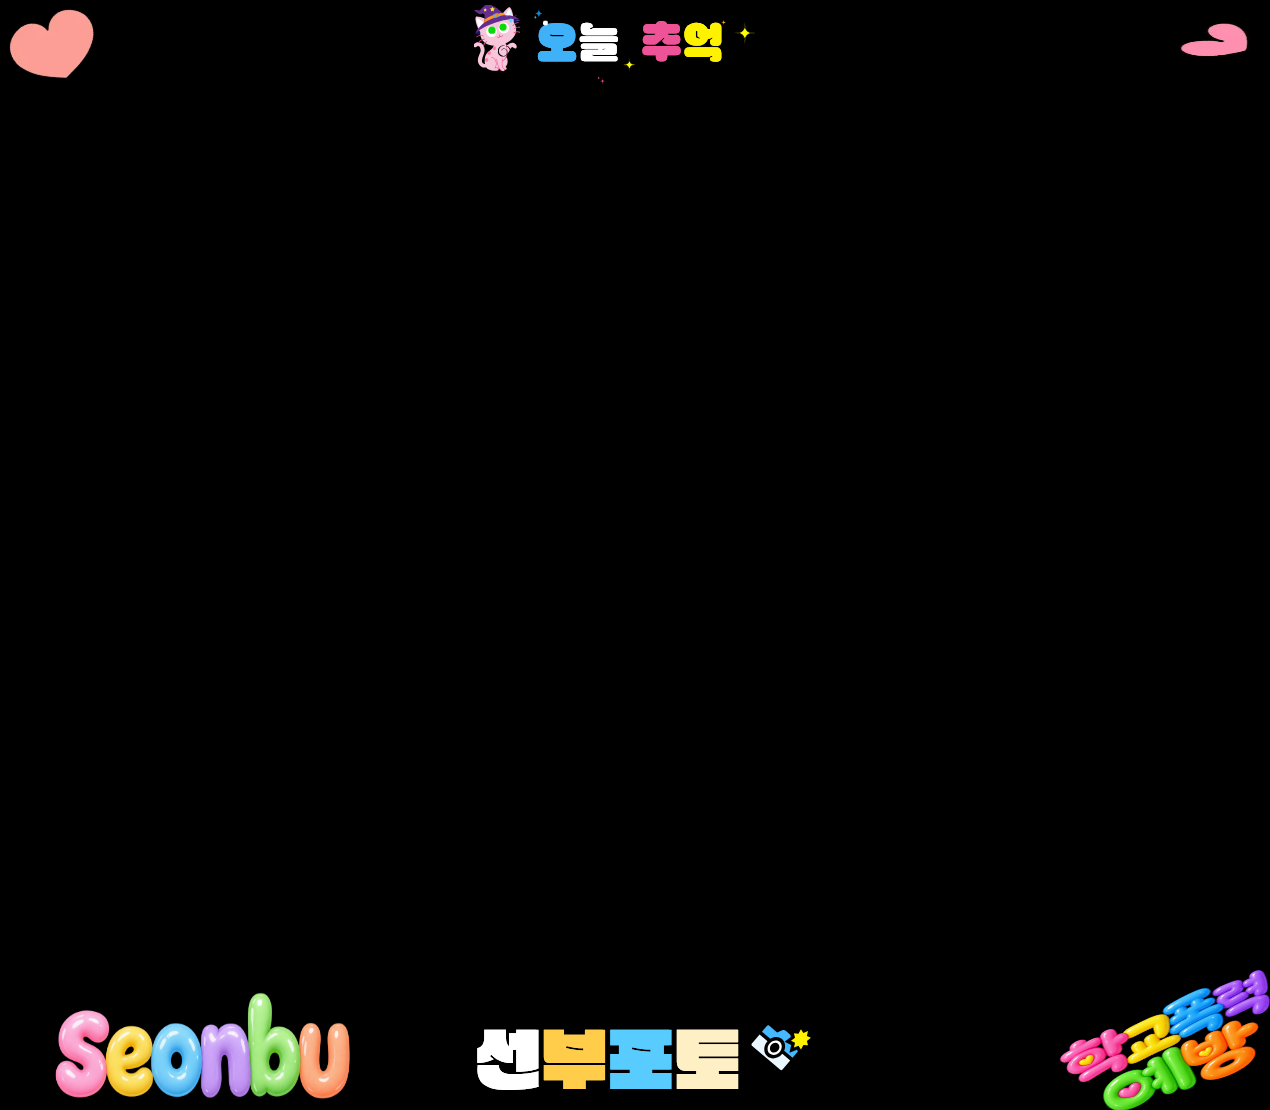
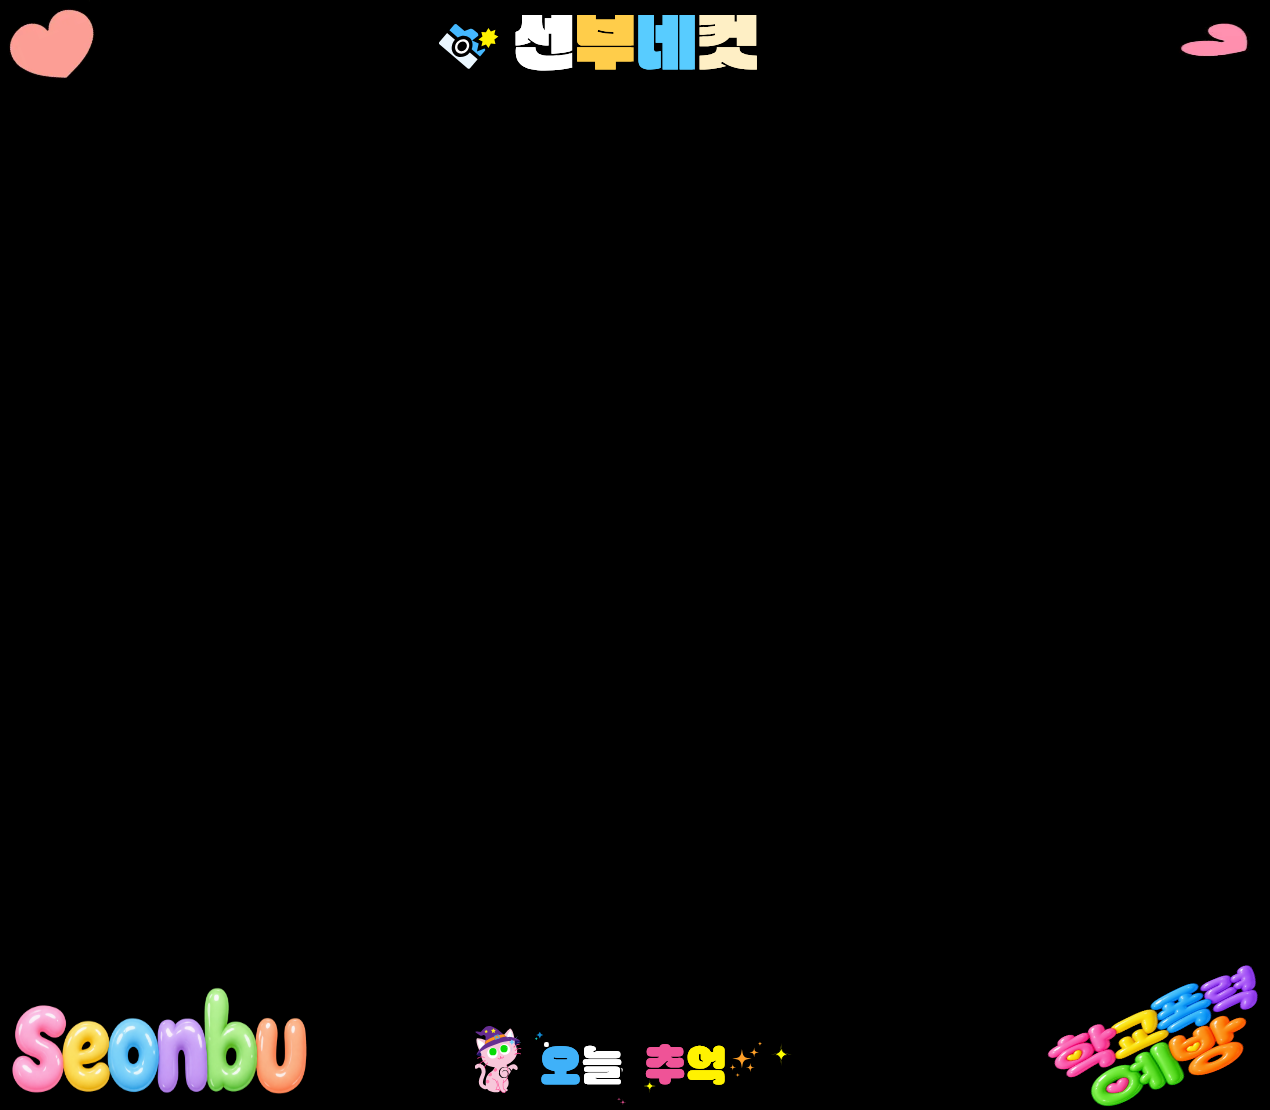
update5

diff --git a/index.html b/index.html
@@ -59,7 +59,7 @@
             height: 100%;
         }
 
-        /* 뷰파인더 메인 프레임 (여백 확보로 배경 이미지 짤림 해결) */
+        /* 뷰파인더 메인 프레임 */
         .viewfinder-outer {
             position: relative;
             width: 100%;
@@ -67,25 +67,37 @@
             height: calc(100vh - 120px);
             max-height: 620px;
             background-color: #1a1a1a;
-            background-size: 100% 100%; /* 배경 이미지 비율에 맞게 적용 */
-            background-position: center;
-            background-repeat: no-repeat;
             border-radius: 16px;
             overflow: hidden;
             box-shadow: 0 12px 40px rgba(0, 0, 0, 0.6);
             display: flex;
             flex-direction: column;
-            padding: 40px 20px 24px 20px; /* 상단 여백 확충 */
+            padding: 40px 20px 24px 20px;
             transition: all 0.3s ease;
         }
 
+        /* 배경 요소를 사진 레이어 위에 위치시키기 위한 가상 요소 사용 */
+        .viewfinder-outer::after {
+            content: '';
+            position: absolute;
+            top: 0;
+            left: 0;
+            width: 100%;
+            height: 100%;
+            background-size: 100% 100%;
+            background-position: center;
+            background-repeat: no-repeat;
+            pointer-events: none;
+            z-index: 10; /* 카메라 화면(z-index: 1)보다 위에 레이어 배치 */
+        }
+
         /* 배경 테마 CSS 클래스 */
-        .viewfinder-outer.theme-school { background-image: url('bg-school2.png'); }
-        .viewfinder-outer.theme-color-1 { background-image: none; background: #1a1a1a; }
-        .viewfinder-outer.theme-color-2 { background-image: none; background: #ffffff; color: #1a1a1a; }
-        .viewfinder-outer.theme-color-3 { background-image: none; background: #f4ebe1; color: #333333; }
-        .viewfinder-outer.theme-grad-1 { background-image: none; background: linear-gradient(135deg, #a1c4fd 0%, #c2e9fb 100%); }
-        .viewfinder-outer.theme-grad-2 { background-image: none; background: linear-gradient(135deg, #ff9a9e 0%, #fecfef 100%); }
+        .viewfinder-outer.theme-school::after { background-image: url('bg-school2.png'); }
+        .viewfinder-outer.theme-color-1 { background: #1a1a1a; }
+        .viewfinder-outer.theme-color-2 { background: #ffffff; color: #1a1a1a; }
+        .viewfinder-outer.theme-color-3 { background: #f4ebe1; color: #333333; }
+        .viewfinder-outer.theme-grad-1 { background: linear-gradient(135deg, #a1c4fd 0%, #c2e9fb 100%); }
+        .viewfinder-outer.theme-grad-2 { background: linear-gradient(135deg, #ff9a9e 0%, #fecfef 100%); }
 
         /* 우측 상단 문구 위치 정리 */
         .frame-header {
@@ -94,19 +106,20 @@
             right: 20px;
             font-size: 1rem;
             font-weight: 700;
-            z-index: 5;
+            z-index: 15; /* 최상단 레이어 */
             white-space: nowrap;
             color: #ffffff;
             text-shadow: 0 2px 4px rgba(0,0,0,0.8);
         }
 
+        /* 카메라 화면 레이어 순서를 뒤로 변경 */
         .camera-grid {
             flex: 1;
             display: grid;
             gap: 8px;
             width: 100%;
             position: relative;
-            z-index: 2;
+            z-index: 1; /* z-index를 낮추어 하단 글씨가 사진 위로 올라오게 함 */
             overflow: hidden;
             border-radius: 8px;
             margin-top: 10px;
@@ -141,7 +154,7 @@
             width: 100%;
             height: 100%;
             pointer-events: none;
-            z-index: 10;
+            z-index: 20;
         }
 
         .sticker-item {
@@ -246,7 +259,6 @@
 
         .btn-opt:hover { background-color: #323746; }
         
-        /* 단일 선택 강조 CSS */
         .btn-opt.active {
             background-color: var(--accent-color) !important;
             border-color: var(--accent-color) !important;
@@ -493,7 +505,6 @@
         const inputHeaderText = document.getElementById('input-header-text');
         const countdownEl = document.getElementById('countdown');
 
-        // 웹캠 시작
         async function startCamera() {
             try {
                 videoStream = await navigator.mediaDevices.getUserMedia({
@@ -526,7 +537,6 @@
             }
         }
 
-        // 특정 그룹 내의 선택 버튼 active 전환 전용 함수
         function setActiveButton(groupId, targetBtn) {
             const group = document.getElementById(groupId);
             if (!group) return;
@@ -534,42 +544,36 @@
             if (targetBtn) targetBtn.classList.add('active');
         }
 
-        // 1. 컷수 선택
         function setCutLayout(cutNum, btn) {
             currentCutCount = cutNum;
             setActiveButton('grp-cut', btn);
             renderCutBoxes();
         }
 
-        // 2. 추천 문구 선택
         function selectPresetText(text, btn) {
             inputHeaderText.value = text;
             textHeaderDisplay.innerText = text;
             setActiveButton('grp-preset', btn);
         }
 
-        // 직접 입력시 preset 액티브 해제
         function updateHeaderText() {
             textHeaderDisplay.innerText = inputHeaderText.value;
             const group = document.getElementById('grp-preset');
             group.querySelectorAll('.btn-opt').forEach(btn => btn.classList.remove('active'));
         }
 
-        // 3. 폰트 선택
         function setFont(fontName, btn) {
             currentFont = fontName;
             textHeaderDisplay.style.fontFamily = `'${fontName}', sans-serif`;
             setActiveButton('grp-font', btn);
         }
 
-        // 4. 색상 선택
         function setTextColor(color, btn) {
             currentTextColor = color;
             textHeaderDisplay.style.color = color;
             setActiveButton('grp-color', btn);
         }
 
-        // 5. 배경 테마 선택
         function setTheme(themeClass, btn) {
             frameOuter.classList.remove(activeThemeClass);
             activeThemeClass = themeClass;
@@ -577,7 +581,6 @@
             setActiveButton('grp-theme', btn);
         }
 
-        // 6. 스티커 추가
         function addSticker(emoji) {
             const sticker = document.createElement('div');
             sticker.className = 'sticker-item';
@@ -603,7 +606,6 @@
             stickerLayer.innerHTML = '';
         }
 
-        // 촬영 클릭 이벤트
         document.getElementById('btn-take-photo').addEventListener('click', () => {
             let count = 3;
             countdownEl.style.display = 'block';
@@ -621,7 +623,7 @@
             }, 1000);
         });
 
-        // 캔버스 최종 합성 및 다운로드 생성
+        // 캔버스 합성시: 1) 카메라 영상 먼저 그리기 ➔ 2) 배경 오버레이 이미지 그리기 순서로 합성
         function captureFrame() {
             const canvas = document.getElementById('render-canvas');
             const ctx = canvas.getContext('2d');
@@ -631,28 +633,22 @@
             canvas.width = width;
             canvas.height = height;
 
-            // A. 배경 이미지/색상 복사
-            if (activeThemeClass === 'theme-school' && bgCustomImg.complete) {
-                ctx.drawImage(bgCustomImg, 0, 0, width, height);
-            } else if (activeThemeClass === 'theme-color-1') {
+            // 1. 단색 및 그라데이션 바탕 먼저 적용
+            if (activeThemeClass === 'theme-color-1') {
                 ctx.fillStyle = '#1a1a1a'; ctx.fillRect(0, 0, width, height);
             } else if (activeThemeClass === 'theme-color-2') {
                 ctx.fillStyle = '#ffffff'; ctx.fillRect(0, 0, width, height);
             } else if (activeThemeClass === 'theme-color-3') {
                 ctx.fillStyle = '#f4ebe1'; ctx.fillRect(0, 0, width, height);
-            } else {
+            } else if (activeThemeClass.startsWith('theme-grad')) {
                 let grad = ctx.createLinearGradient(0, 0, width, height);
                 grad.addColorStop(0, '#a1c4fd'); grad.addColorStop(1, '#c2e9fb');
                 ctx.fillStyle = grad; ctx.fillRect(0, 0, width, height);
+            } else {
+                ctx.fillStyle = '#1a1a1a'; ctx.fillRect(0, 0, width, height);
             }
 
-            // B. 우측 상단 문구 합성
-            ctx.fillStyle = currentTextColor;
-            ctx.font = `bold 32px '${currentFont}', sans-serif`;
-            ctx.textAlign = 'right';
-            ctx.fillText(textHeaderDisplay.innerText, width - 40, 50);
-
-            // C. 비디오 영상 합성
+            // 2. 비디오 카메라 사진 합성 (배경 오버레이보다 아래로 가게 먼저 그리기)
             const videos = document.querySelectorAll('.webcam-stream');
             const padding = 35;
             const topMargin = 80;
@@ -680,7 +676,18 @@
                 drawVideoToCanvas(ctx, videos[3], padding + w + padding, topMargin + h + padding, w, h);
             }
 
-            // D. 스티커 합성
+            // 3. 사진 위에 배경 디자인 오버레이(하단 글씨 등) 합성
+            if (activeThemeClass === 'theme-school' && bgCustomImg.complete) {
+                ctx.drawImage(bgCustomImg, 0, 0, width, height);
+            }
+
+            // 4. 우측 상단 사용자 지정 문구 합성
+            ctx.fillStyle = currentTextColor;
+            ctx.font = `bold 32px '${currentFont}', sans-serif`;
+            ctx.textAlign = 'right';
+            ctx.fillText(textHeaderDisplay.innerText, width - 40, 50);
+
+            // 5. 스티커 합성
             const stickers = document.querySelectorAll('.sticker-item');
             const outerRect = frameOuter.getBoundingClientRect();
 
@@ -694,7 +701,7 @@
                 ctx.fillText(s.innerText, rx * width, ry * height);
             });
 
-            // E. 모달 미리보기 출력
+            // 6. 결과창 및 QR 노출
             const dataUrl = canvas.toDataURL('image/png');
             document.getElementById('final-result-img').src = dataUrl;
 
